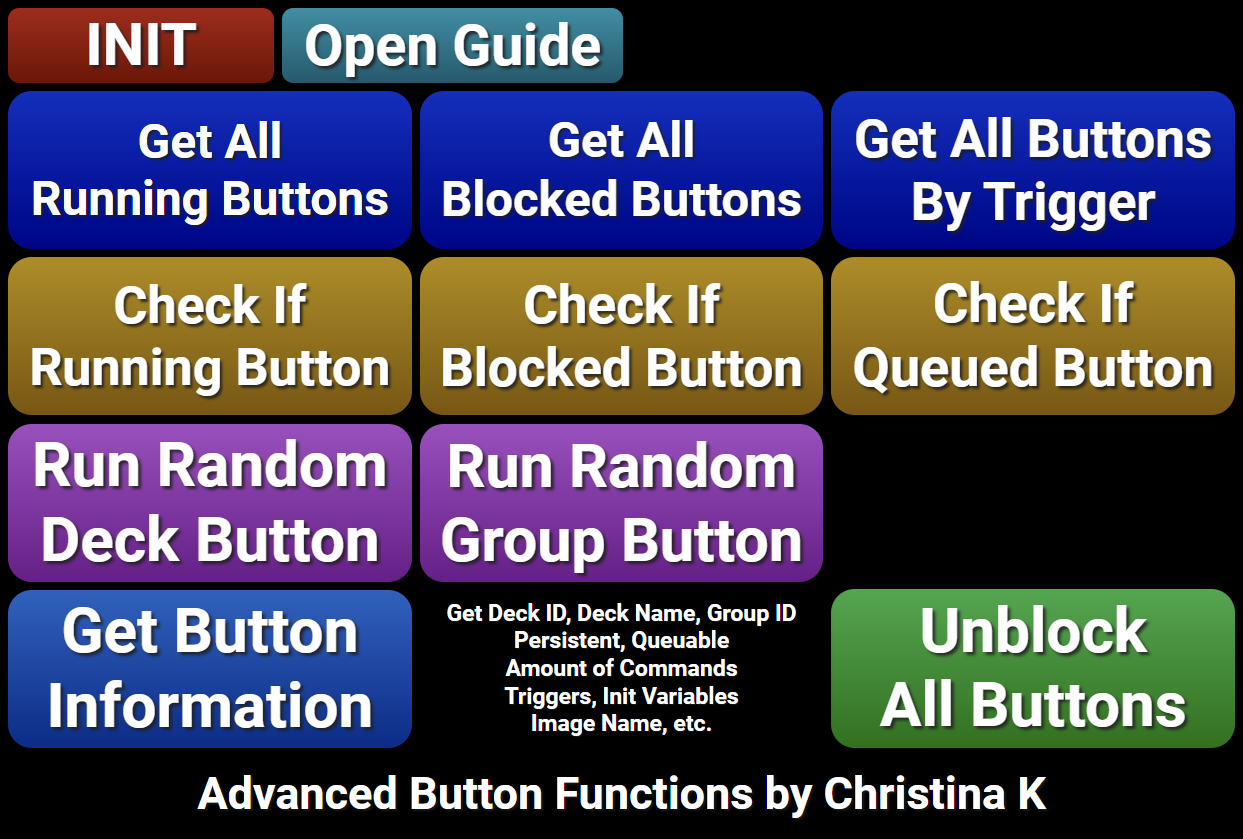
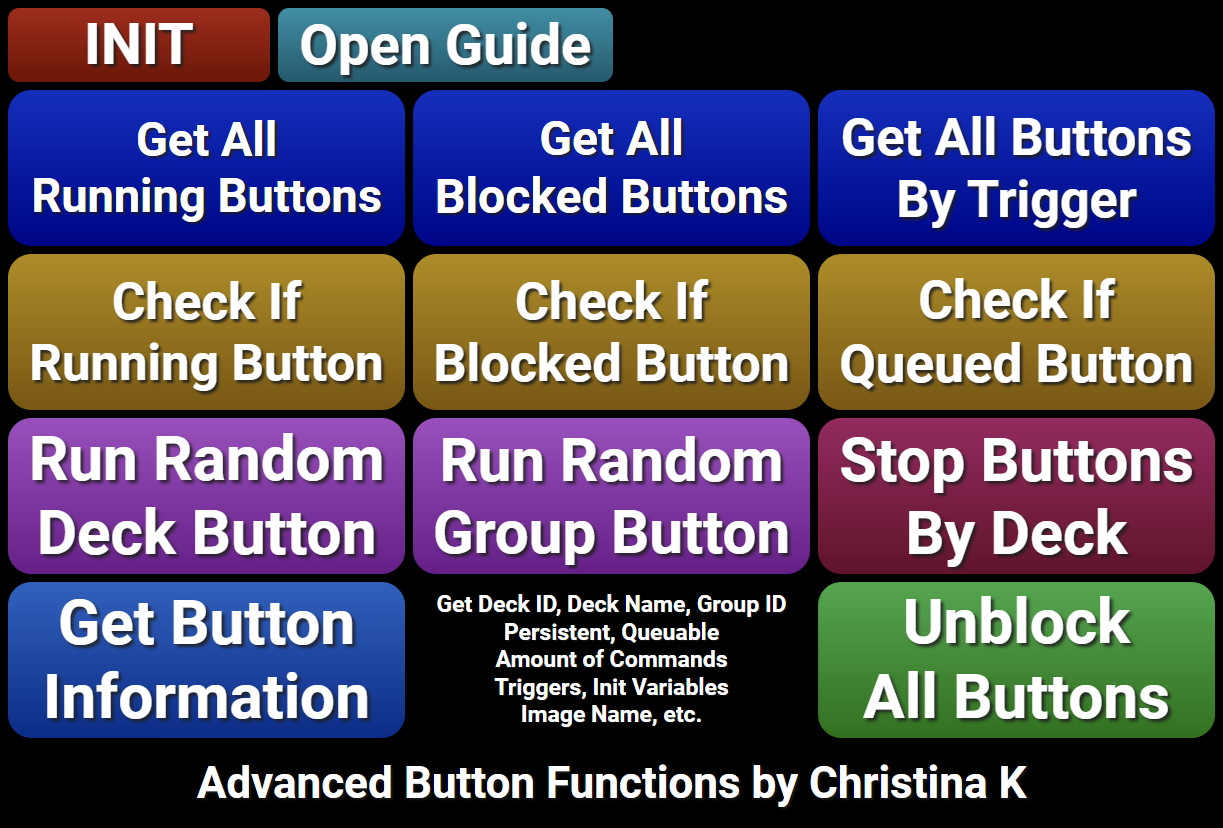
modify ext

diff --git a/collections/_extensions/advanced-buttons.md b/collections/_extensions/advanced-buttons.md
@@ -4,7 +4,7 @@ title: Advanced Button Functions
 slug: advanced-buttons
 desc: Run a random button, check if button is running or blocked, and more!
 category: utilities
-date: '2024-04-23T00:00:00-05:00'
+date: '2024-10-02T00:00:00-05:00'
 permalink: extensions/utilities/:slug
 download_url: https://christinak.itch.io/advanced-buttons
 developer_name: Christina K.
@@ -23,6 +23,7 @@ overview: |
     - Check if a button is currently running, in queue (and how many are in queue), or blocked.
     - Get all running and blocked buttons 
     - Get all buttons by triggers
+    - Stop all buttons in a selected deck
     - Get button information (deck name, group id, image name, init variables, etc.)
 
     Comes with a premade deck with all available commands and explanations.
